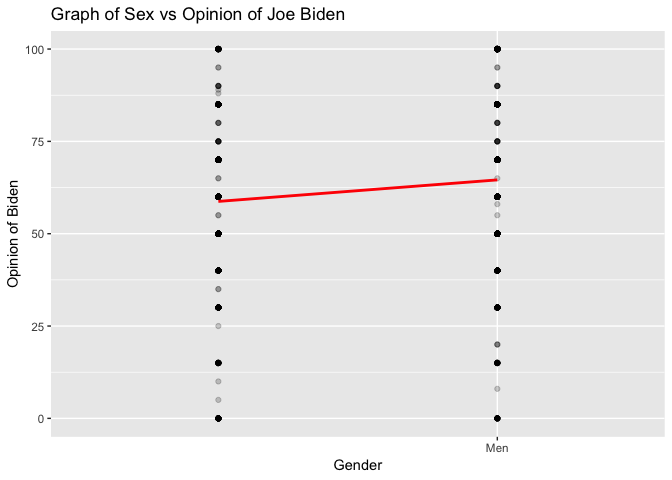
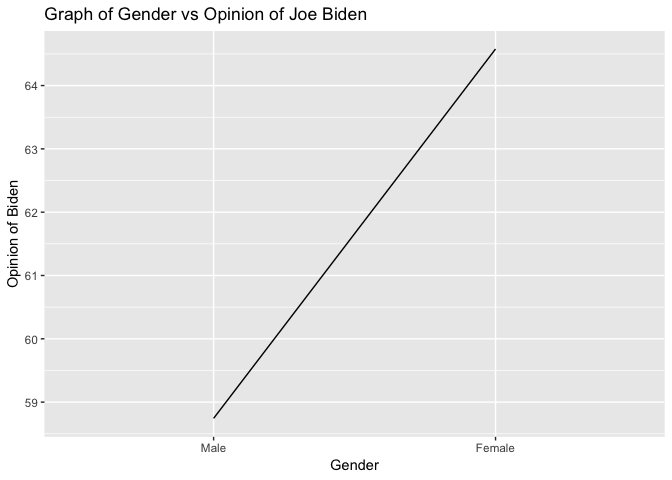
finalizing

diff --git a/hw6_titanic.md b/hw6_titanic.md
@@ -145,16 +145,16 @@ loocv_data
     ## # A tibble: 891 x 4
     ##    splits       id         results             mse
     ##    <list>       <chr>      <list>            <dbl>
-    ##  1 <S3: rsplit> Resample1  <tibble [1 × 16]> 0.105
-    ##  2 <S3: rsplit> Resample2  <tibble [1 × 16]> 0.146
-    ##  3 <S3: rsplit> Resample3  <tibble [1 × 16]> 0.400
-    ##  4 <S3: rsplit> Resample4  <tibble [1 × 16]> 0.104
-    ##  5 <S3: rsplit> Resample5  <tibble [1 × 16]> 0.137
-    ##  6 <S3: rsplit> Resample6  <tibble [1 × 16]> 0.104
-    ##  7 <S3: rsplit> Resample7  <tibble [1 × 16]> 0.141
-    ##  8 <S3: rsplit> Resample8  <tibble [1 × 16]> 0.248
-    ##  9 <S3: rsplit> Resample9  <tibble [1 × 16]> 0.721
-    ## 10 <S3: rsplit> Resample10 <tibble [1 × 16]> 0.103
+    ##  1 <S3: rsplit> Resample1  <tibble [1 × 16]> 0.136
+    ##  2 <S3: rsplit> Resample2  <tibble [1 × 16]> 0.115
+    ##  3 <S3: rsplit> Resample3  <tibble [1 × 16]> 0.398
+    ##  4 <S3: rsplit> Resample4  <tibble [1 × 16]> 0.178
+    ##  5 <S3: rsplit> Resample5  <tibble [1 × 16]> 0.398
+    ##  6 <S3: rsplit> Resample6  <tibble [1 × 16]> 0.443
+    ##  7 <S3: rsplit> Resample7  <tibble [1 × 16]> 0.199
+    ##  8 <S3: rsplit> Resample8  <tibble [1 × 16]> 0.157
+    ##  9 <S3: rsplit> Resample9  <tibble [1 × 16]> 0.336
+    ## 10 <S3: rsplit> Resample10 <tibble [1 × 16]> 0.104
     ## # ... with 881 more rows
 
 ``` r
@@ -220,12 +220,12 @@ loocv_data
     ##  1 <S3: rsplit> Resample1  <tibble [1 × 16]> 0.415 
     ##  2 <S3: rsplit> Resample2  <tibble [1 × 16]> 0.0616
     ##  3 <S3: rsplit> Resample3  <tibble [1 × 16]> 0.0616
-    ##  4 <S3: rsplit> Resample4  <tibble [1 × 16]> 0.415 
-    ##  5 <S3: rsplit> Resample5  <tibble [1 × 16]> 0.415 
-    ##  6 <S3: rsplit> Resample6  <tibble [1 × 16]> 0.568 
-    ##  7 <S3: rsplit> Resample7  <tibble [1 × 16]> 0.0616
+    ##  4 <S3: rsplit> Resample4  <tibble [1 × 16]> 0.0616
+    ##  5 <S3: rsplit> Resample5  <tibble [1 × 16]> 0.0616
+    ##  6 <S3: rsplit> Resample6  <tibble [1 × 16]> 0.198 
+    ##  7 <S3: rsplit> Resample7  <tibble [1 × 16]> 0.198 
     ##  8 <S3: rsplit> Resample8  <tibble [1 × 16]> 0.568 
-    ##  9 <S3: rsplit> Resample9  <tibble [1 × 16]> 0.0616
+    ##  9 <S3: rsplit> Resample9  <tibble [1 × 16]> 0.129 
     ## 10 <S3: rsplit> Resample10 <tibble [1 × 16]> 0.568 
     ## # ... with 881 more rows
 
@@ -273,12 +273,12 @@ loocv_data
     ##    splits       id         results              mse
     ##    <list>       <chr>      <list>             <dbl>
     ##  1 <S3: rsplit> Resample1  <tibble [1 × 16]> 0.0358
-    ##  2 <S3: rsplit> Resample2  <tibble [1 × 16]> 0.554 
-    ##  3 <S3: rsplit> Resample3  <tibble [1 × 16]> 0.0670
+    ##  2 <S3: rsplit> Resample2  <tibble [1 × 16]> 0.0670
+    ##  3 <S3: rsplit> Resample3  <tibble [1 × 16]> 0.0358
     ##  4 <S3: rsplit> Resample4  <tibble [1 × 16]> 0.0358
     ##  5 <S3: rsplit> Resample5  <tibble [1 × 16]> 0.660 
     ##  6 <S3: rsplit> Resample6  <tibble [1 × 16]> 0.0358
-    ##  7 <S3: rsplit> Resample7  <tibble [1 × 16]> 0.0670
+    ##  7 <S3: rsplit> Resample7  <tibble [1 × 16]> 0.0358
     ##  8 <S3: rsplit> Resample8  <tibble [1 × 16]> 0.0358
     ##  9 <S3: rsplit> Resample9  <tibble [1 × 16]> 0.0358
     ## 10 <S3: rsplit> Resample10 <tibble [1 × 16]> 0.0358
@@ -394,11 +394,11 @@ age_class_rf$finalModel
     ##                      Number of trees: 500
     ## No. of variables tried at each split: 2
     ## 
-    ##         OOB estimate of  error rate: 30.39%
+    ##         OOB estimate of  error rate: 31.65%
     ## Confusion matrix:
     ##          Died Survived class.error
-    ## Died      342       82   0.1933962
-    ## Survived  135      155   0.4655172
+    ## Died      341       83   0.1957547
+    ## Survived  143      147   0.4931034
 
 ``` r
 #sex and class
@@ -430,10 +430,10 @@ sex_class_age_rf$finalModel
     ##                      Number of trees: 500
     ## No. of variables tried at each split: 3
     ## 
-    ##         OOB estimate of  error rate: 17.93%
+    ##         OOB estimate of  error rate: 18.21%
     ## Confusion matrix:
     ##          Died Survived class.error
-    ## Died      382       42   0.0990566
-    ## Survived   86      204   0.2965517
+    ## Died      379       45   0.1061321
+    ## Survived   85      205   0.2931034
 
 The out of bag estimates for both the age and class random forest and the sex and class random forest is 20.87%. The out of bag estimate for the age, sex, class random forest is 18.35%. The random forest that included more variables performed better.

diff --git a/hw6_biden.md b/hw6_biden.md
@@ -9,6 +9,8 @@ Abby Bergman
 #get the data
 library(readr)
 biden <- read_csv("data/biden.csv")
+
+biden$female <- factor(biden$female, levels=c(0,1), labels=c("Male", "Female"))
 ```
 
 ``` r
@@ -28,9 +30,9 @@ bid_mod <- lm(biden ~ female, data = biden)
     ## -64.577 -14.577   1.257  20.423  41.257 
     ## 
     ## Coefficients:
-    ##             Estimate Std. Error t value Pr(>|t|)    
-    ## (Intercept)   58.743      0.811  72.437  < 2e-16 ***
-    ## female         5.833      1.087   5.367 9.03e-08 ***
+    ##              Estimate Std. Error t value Pr(>|t|)    
+    ## (Intercept)    58.743      0.811  72.437  < 2e-16 ***
+    ## femaleFemale    5.833      1.087   5.367 9.03e-08 ***
     ## ---
     ## Signif. codes:  0 '***' 0.001 '**' 0.01 '*' 0.05 '.' 0.1 ' ' 1
     ## 
@@ -39,7 +41,7 @@ bid_mod <- lm(biden ~ female, data = biden)
     ## Multiple R-squared:  0.01524,    Adjusted R-squared:  0.01471 
     ## F-statistic:  28.8 on 1 and 1861 DF,  p-value: 9.026e-08
 
-As shown above, the relationship between feelings towards biden and gender is significant with a p-value of less than .05 (p = 9.03e-08).
+As shown above, the relationship between feelings towards biden and gender is significant with a p-value of less than .05 (p = 9.03e-08). The coefficient is 5.833 for the variable "female".
 
 ``` r
 #Build the best predictive linear regression model of attitudes towards Joe Biden given the variables you have available. In this context, “best” is defined as the model with the lowest MSE. Compare at least three different model formulations (aka different combinations of variables). Use 10-fold cross-validation to avoid a biased estimate of MSE.
@@ -116,11 +118,9 @@ pid_age_cv10 <- vfold_cv(data = biden_new, v = 10) %>%
 mean(pid_age_cv10$mse, na.rm = TRUE)
 ```
 
-    ## [1] 401.2702
+    ## [1] 401.3634
 
 ``` r
-#error = 401.055
-
 #CV for pid
 pid_cv10 <- vfold_cv(data = biden_new, v = 10) %>%
   mutate(results = map(splits, holdout_results_pid),
@@ -128,11 +128,9 @@ pid_cv10 <- vfold_cv(data = biden_new, v = 10) %>%
 mean(pid_cv10$mse, na.rm = TRUE)
 ```
 
-    ## [1] 401.5815
+    ## [1] 402.1301
 
 ``` r
-#error = 402.2789
-
 #CV for age
 age_cv10 <- vfold_cv(data = biden_new, v = 10) %>%
   mutate(results = map(splits, holdout_results_age),
@@ -140,13 +138,9 @@ age_cv10 <- vfold_cv(data = biden_new, v = 10) %>%
 mean(age_cv10$mse, na.rm = TRUE)
 ```
 
-    ## [1] 550.5062
+    ## [1] 550.1624
 
-``` r
-#error = 551.0212
-```
-
-The model that takes into account both party ID and age has the lowest error rate (401.0555). The error for the model with only party ID was only slightly higher (402.2789) but the model that only took age into account was much higher (551.0212).
+The model that takes into account both party ID and age has the lowest error rate. The error for the model with only party ID was only slightly higher but the model that only took age into account was much higher (see values in results above).
 
 ``` r
 #what happens if we include gender in the model?
@@ -173,10 +167,6 @@ age_pid_gender_cv10 <- vfold_cv(data = biden_new, v = 10) %>%
 mean(age_pid_gender_cv10$mse, na.rm = TRUE)
 ```
 
-    ## [1] 398.3642
+    ## [1] 397.7029
 
-``` r
-#error = 397.4093
-```
-
-Here we see that when we include the gender variable in the model, the error rate is lowered to 397.4093 so this is a better model.
+Here we see that when we include the gender variable in the model, the error rate is lowered to 397.7192 so this is a better model.
